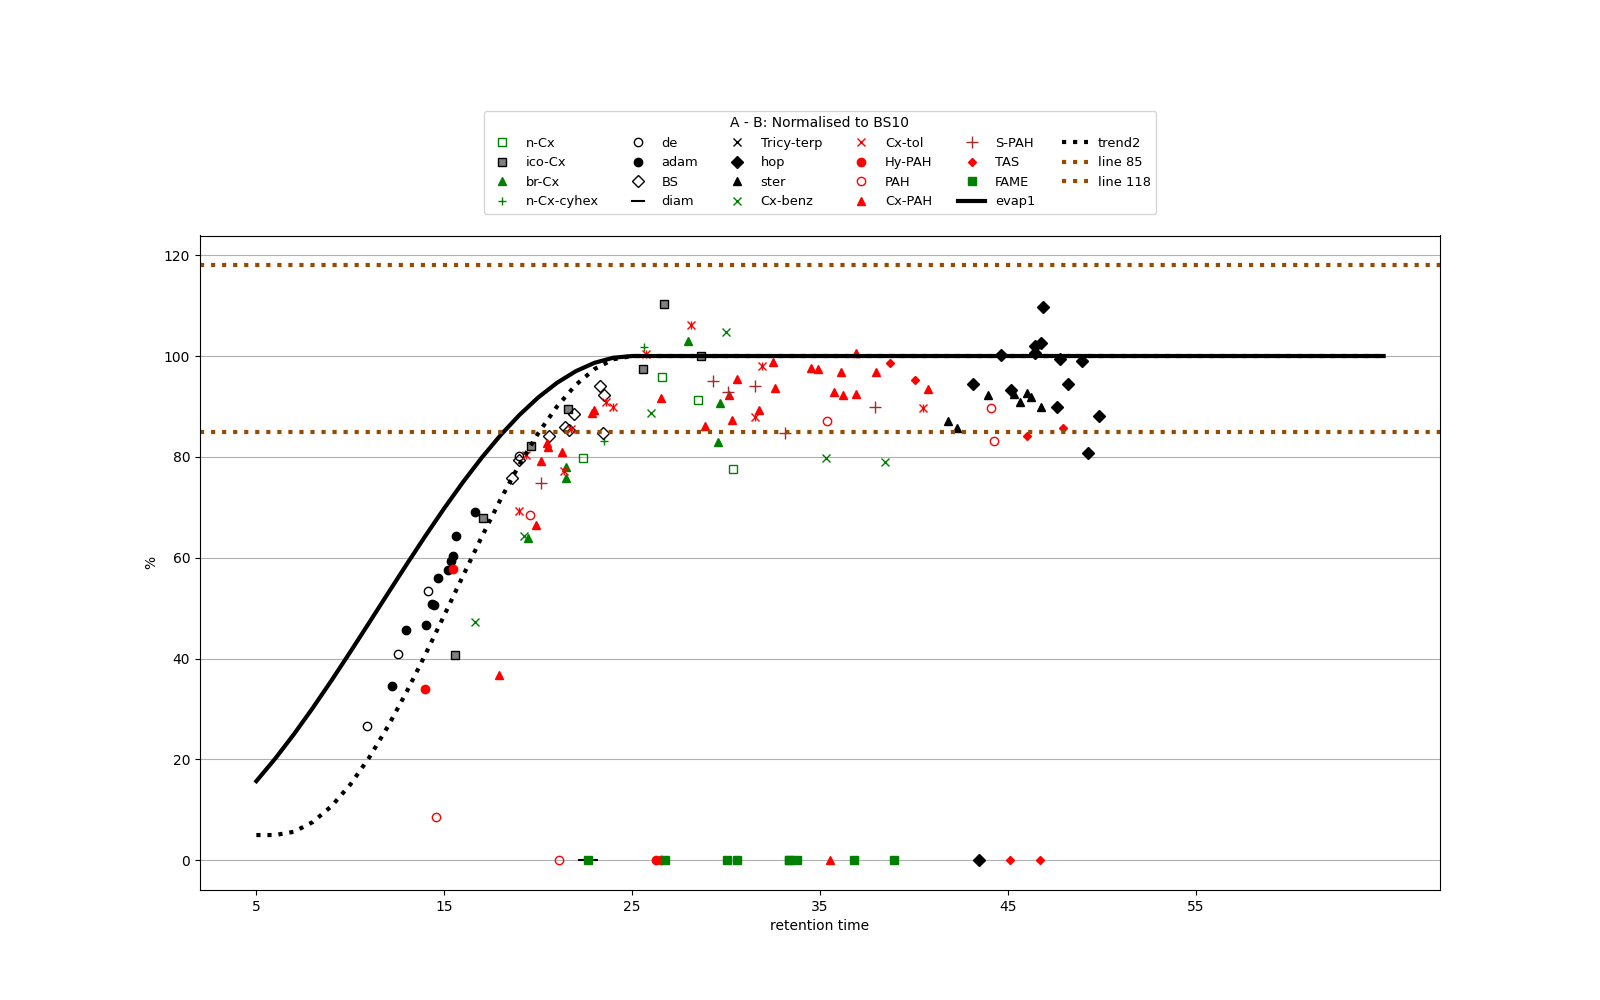
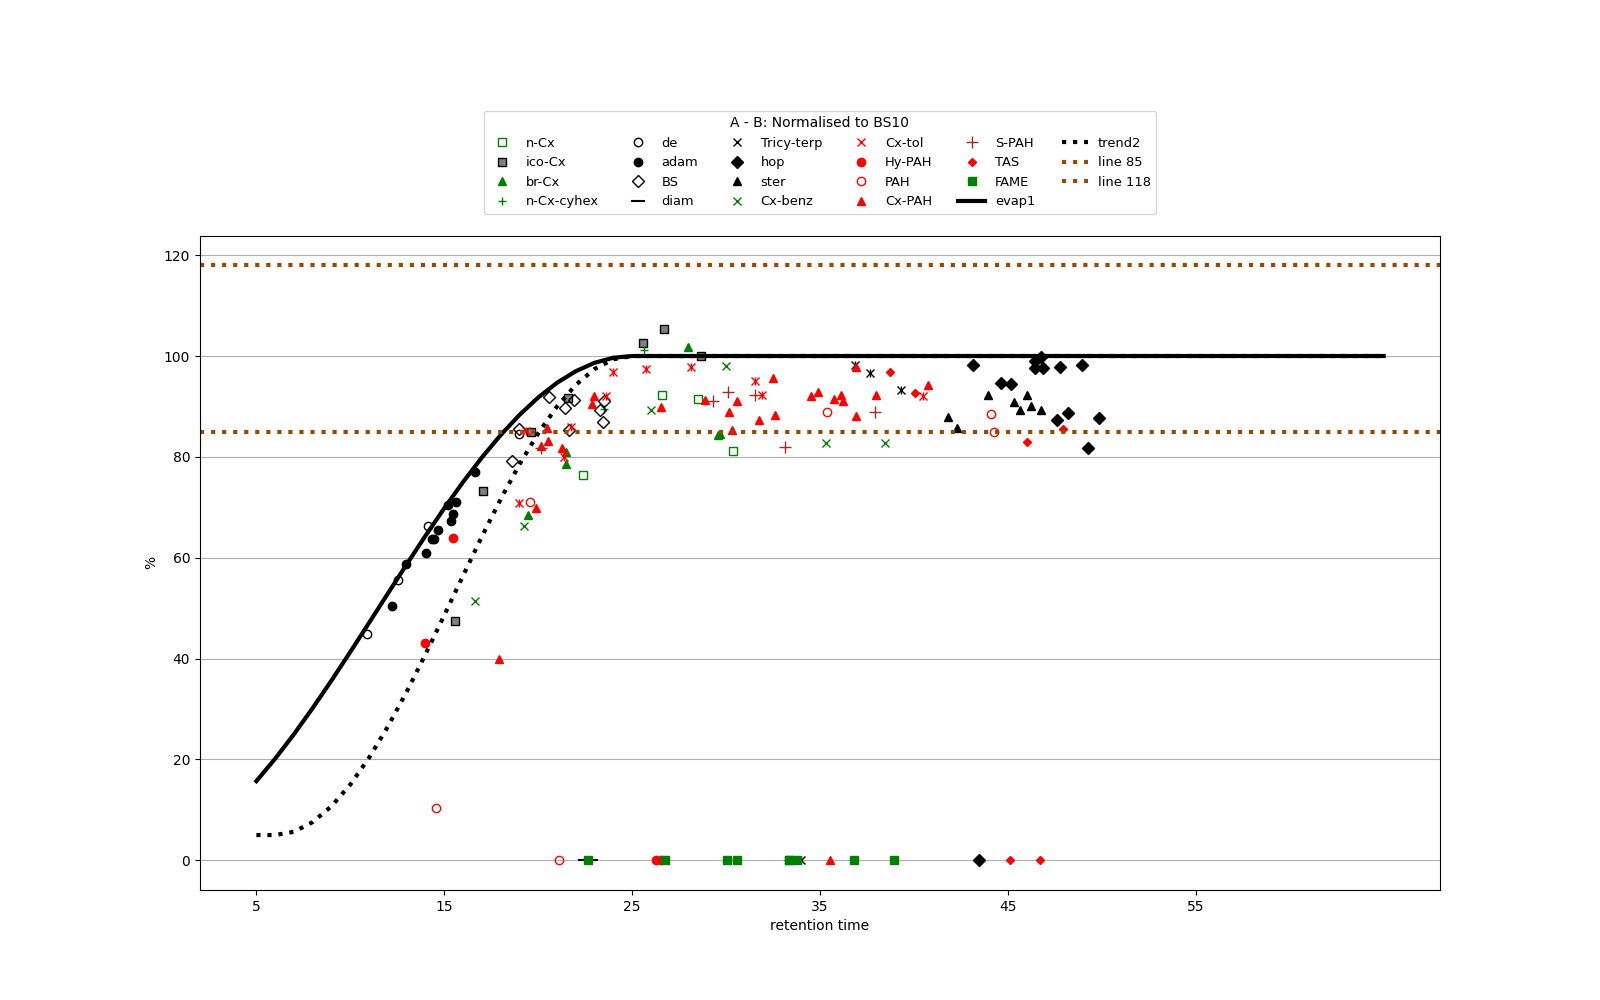
done

diff --git a/Outside Work/Done/createBS10Graph.py b/Outside Work/Done/createBS10Graph.py
@@ -95,8 +95,8 @@ def createBS10Line( df,
             rt_diam.append(datax)
             v_diam.append(datay)
         if indexCount>45 and indexCount<=49: #8
-            rt_tricyTerp=[]
-            v_tricyTerp=[]
+            rt_tricyTerp.append(datax)
+            v_tricyTerp.append(datay)
         if indexCount>49 and indexCount<=63: #9
             rt_hopa.append(datax)
             v_hopa.append(datay)
